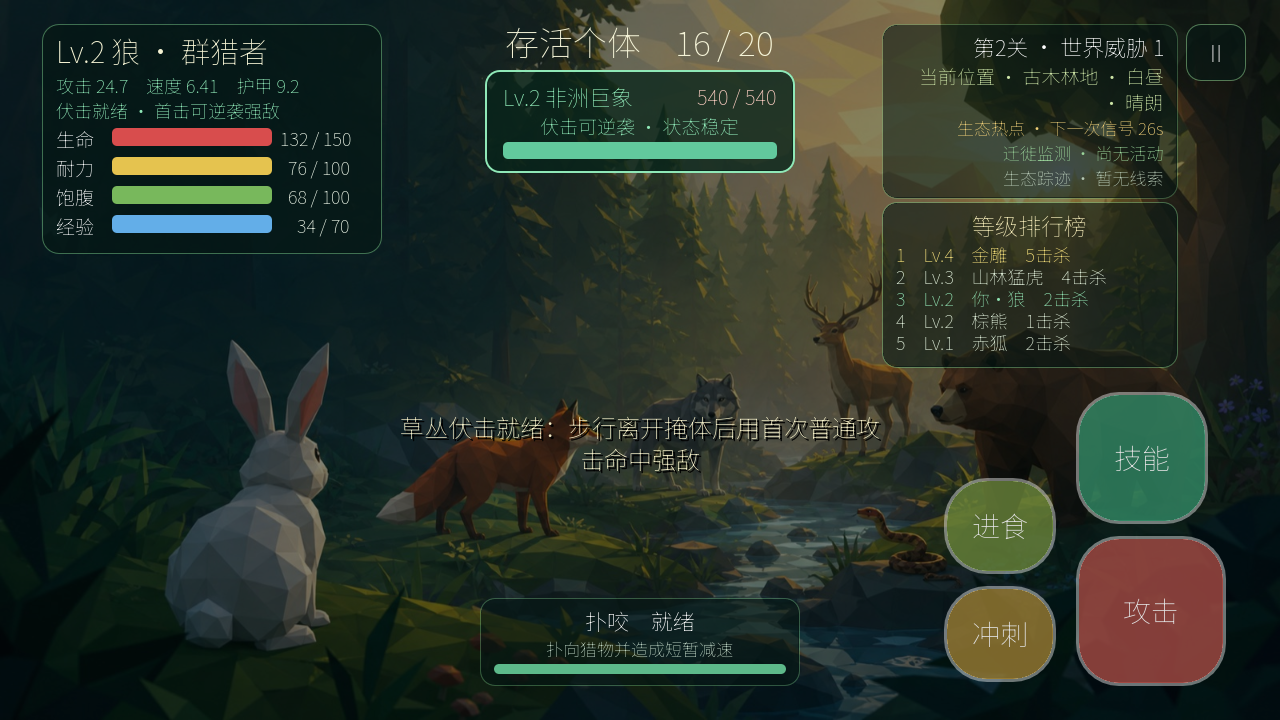
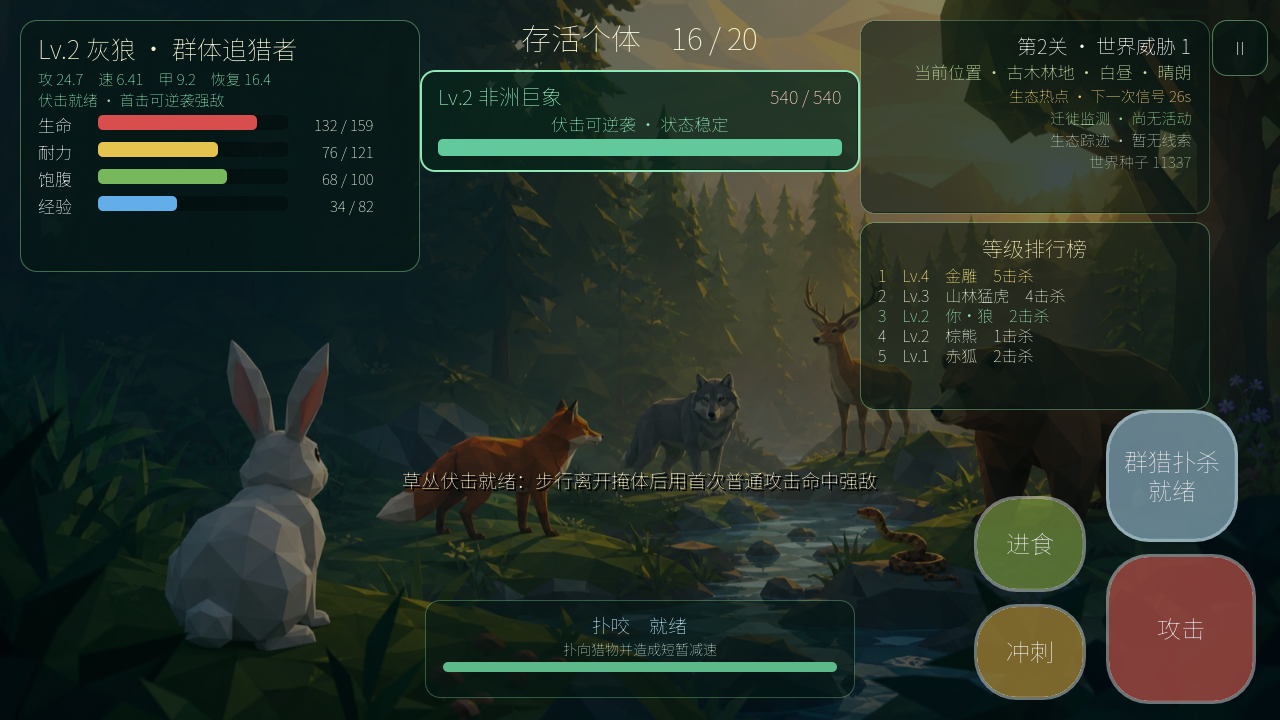
fix: improve growth feedback and level one variety

diff --git a/BUILDING.md b/BUILDING.md
@@ -1,4 +1,4 @@
-# 《生态轮回》V1.17 运行与导出
+# 《生态轮回》V1.18 运行与导出
 
 ## 直接运行
 
@@ -28,9 +28,11 @@ godot --path .
 
 普通攻击只在攻击范围内触发。食草物种吃绿色植物，肉食物种吃尸体，狐狸和熊两者都能吃。
 
-V1.17 会依据横屏安全区域的实际宽高自动选择手机紧凑 HUD 或平板舒展 HUD。手机上玩家状态、关卡信息、排行榜、战报、攻略和设置框会减少无效留白，但生命、耐力、饱腹、经验等字号及右侧主要触控按钮不会跟着缩小；非关键的世界种子会在紧凑 HUD 中隐藏。
+V1.18 会依据横屏安全区域的实际宽高自动选择手机紧凑 HUD 或平板舒展 HUD。手机上玩家状态、关卡信息、排行榜、战报、攻略和设置框会减少无效留白，但生命、耐力、饱腹、经验等字号及右侧主要触控按钮不会跟着缩小；非关键的世界种子会在紧凑 HUD 中隐藏。玩家升级后，生命与耐力状态条会立即同步新上限，状态栏同时显示攻击、速度、护甲和耐力恢复。
 
 V1.17 的 AI 猎手会根据目标伤势、耐力、速度、体型、距离、生态区和同伴数量选择猎物，并在低血或力竭时停止不利追击。群猎物种会近距离共享目标，群居草食物种会共享天敌警报和逃生方向；这些信息都有距离上限，不会全图锁定玩家。
+
+第一关的熊穴在 V1.18 中改为约 42% 概率出现。熊缺席时仍会保证肉食者和足够的草食/觅食个体，因此教学局会在“躲避顶级猎食者”和“观察多方竞争”两种生态节奏之间变化。
 
 普通攻击或技能生效后需要停止战斗 0.8 秒才会开始恢复耐力。饥饿耗尽后每 3 秒损失最大生命 1%，但最低保留 1 点生命。每个野外食物点首次取食会提供少量觅食经验，同一动物不能反复从同一食物点刷经验。
 

diff --git a/README.md b/README.md
@@ -1,6 +1,6 @@
 # 《生态轮回》游戏设计文档
 
-版本：可玩实现 V1.17 + GDD V1.0
+版本：可玩实现 V1.18 + GDD V1.0
 状态：首发可玩版本已完成
 引擎：Godot 4.7.1  
 视角：3D 斜俯视角
@@ -78,7 +78,14 @@
 
 ![V1.13 生态踪迹与危险记忆](docs/images/v25-ecology-traces.png)
 
-![V1.15 多机型紧凑手机 HUD](docs/images/v26-adaptive-mobile-ui.png)
+![V1.18 升级后精确同步的手机 HUD](docs/images/v26-adaptive-mobile-ui.png)
+
+## V1.18 成长反馈与第一关生态变化
+
+- 升级后生命和耐力状态条会立即使用新的上限，连续升级、一次获得大量经验和满级截断均加入自动回归测试。
+- HUD 与升级播报新增耐力恢复数值，让所有随等级提升的主要能力都能被玩家看见。
+- 第一关“熊穴”改为约 42% 的可选生态事件；有熊时可学习避战和借力，无熊时由狼、狐狸、蛇争夺终局，减少固定由棕熊获胜的重复感。
+- 第一关仍保证草食/觅食者比例和至少一种肉食者，教学食物链不会因熊穴随机缺席而断裂。
 
 ## V1.17 生态 AI 战况判断
 

diff --git a/docs/11_成长数值与物种攻略.md b/docs/11_成长数值与物种攻略.md
@@ -1,6 +1,6 @@
 # 成长数值与物种攻略
 
-版本：V1.10
+版本：V1.18
 适用范围：当前 30 种可玩物种、Lv.1–Lv.8 局内成长
 
 ## 1. 设计目标
@@ -25,6 +25,8 @@
 | 巨兽蜕变 | 大象、犀牛、河马 | +12.0% | +7.0% | +0.8% | +5.0% | +2.2 | +2.0% | 以体型和区域控制主导终局 |
 
 每次升级还会补足新增生命上限和耐力上限，另回复新上限 30% 生命与 42% 耐力。这让升级能带来当场翻盘感，但不会直接充满生命。
+
+状态栏会持续显示当前攻击、速度、护甲和耐力恢复；生命与耐力条在升级同一帧切换到新上限。升级提示列出每项实际增量，因此玩家不需要凭条形长度猜测成长是否生效。
 
 ## 3. 30 种物种 Lv.1/Lv.8 实际数值
 

diff --git a/docs/05_十关详细设计.md b/docs/05_十关详细设计.md
@@ -113,7 +113,7 @@ V1.14 把“建立期”从文档目标落到 AI 行为：第 1 关为 38 秒，
 ### 4.3 阵容
 
 - 10 个体，从兔、狐狸、鹿、狼、蛇、熊 6 种中抽取 4–5 种；
-- 熊最多 1 只，狼最多 3 只，至少 4 个草食/小型觅食者；
+- 熊穴按约 42% 的世界概率开放，开放时熊最多 1 只；狼最多 3 只，至少 5 个草食个体，并始终保证至少一种肉食者；
 - 玩家可抽到任一已生成物种。
 
 ### 4.4 教学节奏
